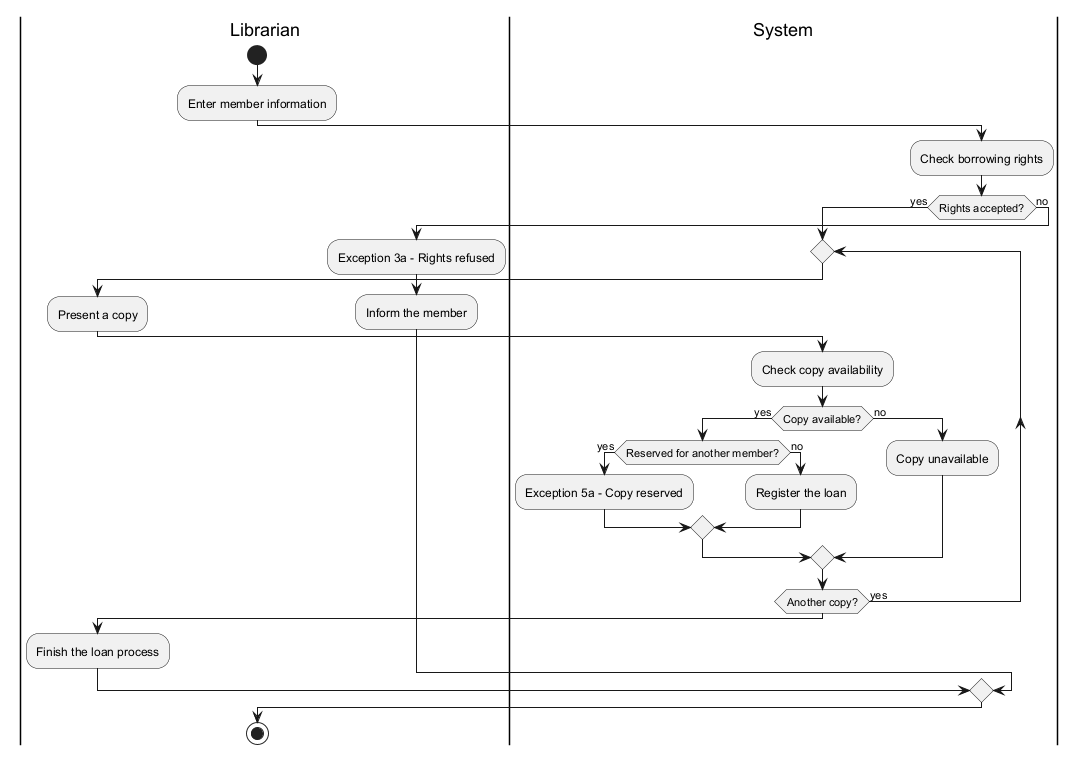
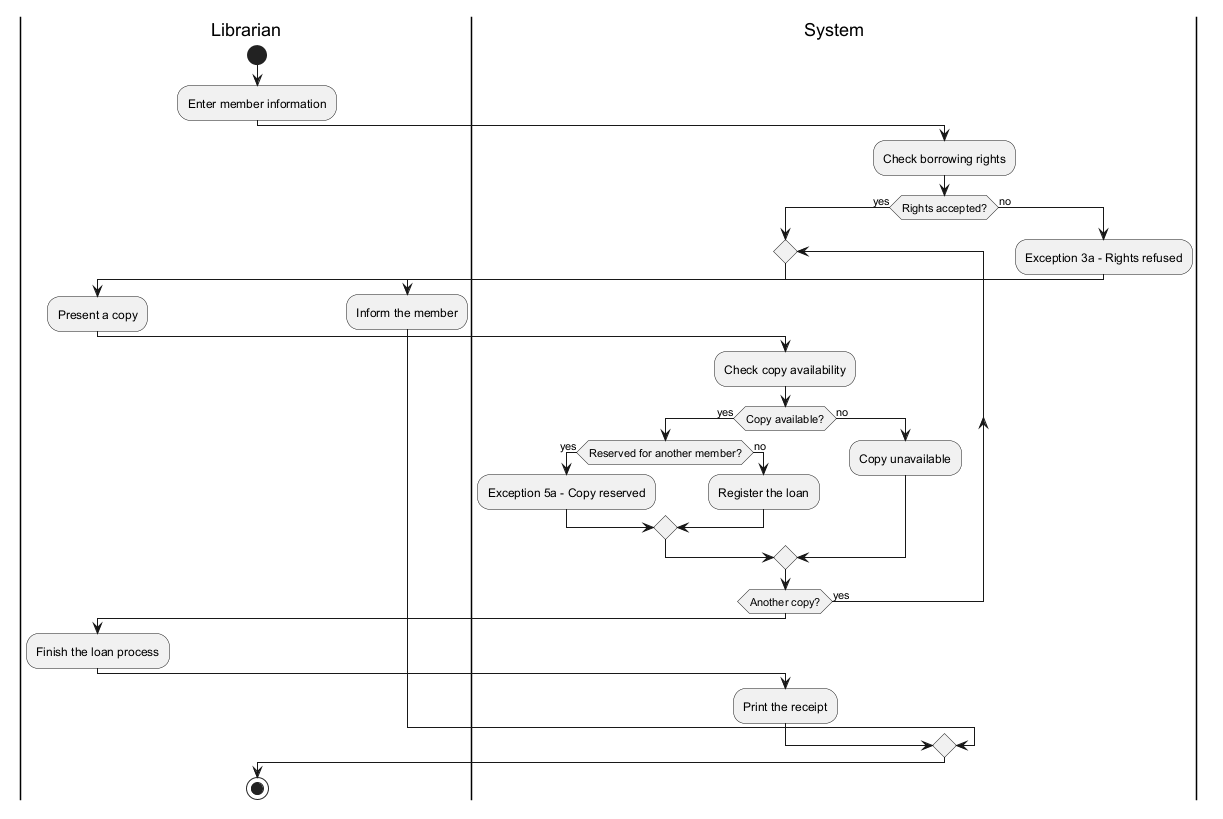
Apply teacher corrections to TP3

diff --git a/docs/uml/register-return.md b/docs/uml/register-return.md
@@ -16,15 +16,21 @@ Primary Actor
 
 Librarian
 
+Secondary Actor
+
+Mail server
+
 Stakeholders and Interests
 
 - Member: Wants to return a borrowed copy successfully.
 - Librarian: Wants to register the returned copy correctly.
 - Library: Wants loan records and book availability to remain up to date.
 - Member who reserved the book: Wants to be notified when the reserved copy becomes available.
+- Mail server: Sends notifications to members.
 
 Preconditions
 
+- The librarian is authenticated.
 - The member has borrowed the copy.
 - The loan is registered in the library system.
 
@@ -50,8 +56,11 @@ Main Success Scenario
 7. If it is reserved, the librarian sets the copy aside.
 8. The system notifies the member who reserved the copy.
 9. The librarian completes the return process.
+10. The system prints the receipt.
 
 Extensions
 
+- 1a. Barcode cannot be read: The librarian manually enters the copy number.
+- 2a. Copy is not on loan: The system displays an error message and the use case ends.
 - 4a. Late return: The system activates the extension point "late return" and executes the use case "Suspend the member".
 - 6a. Copy is reserved: The copy is set aside and the member who reserved it is notified.
